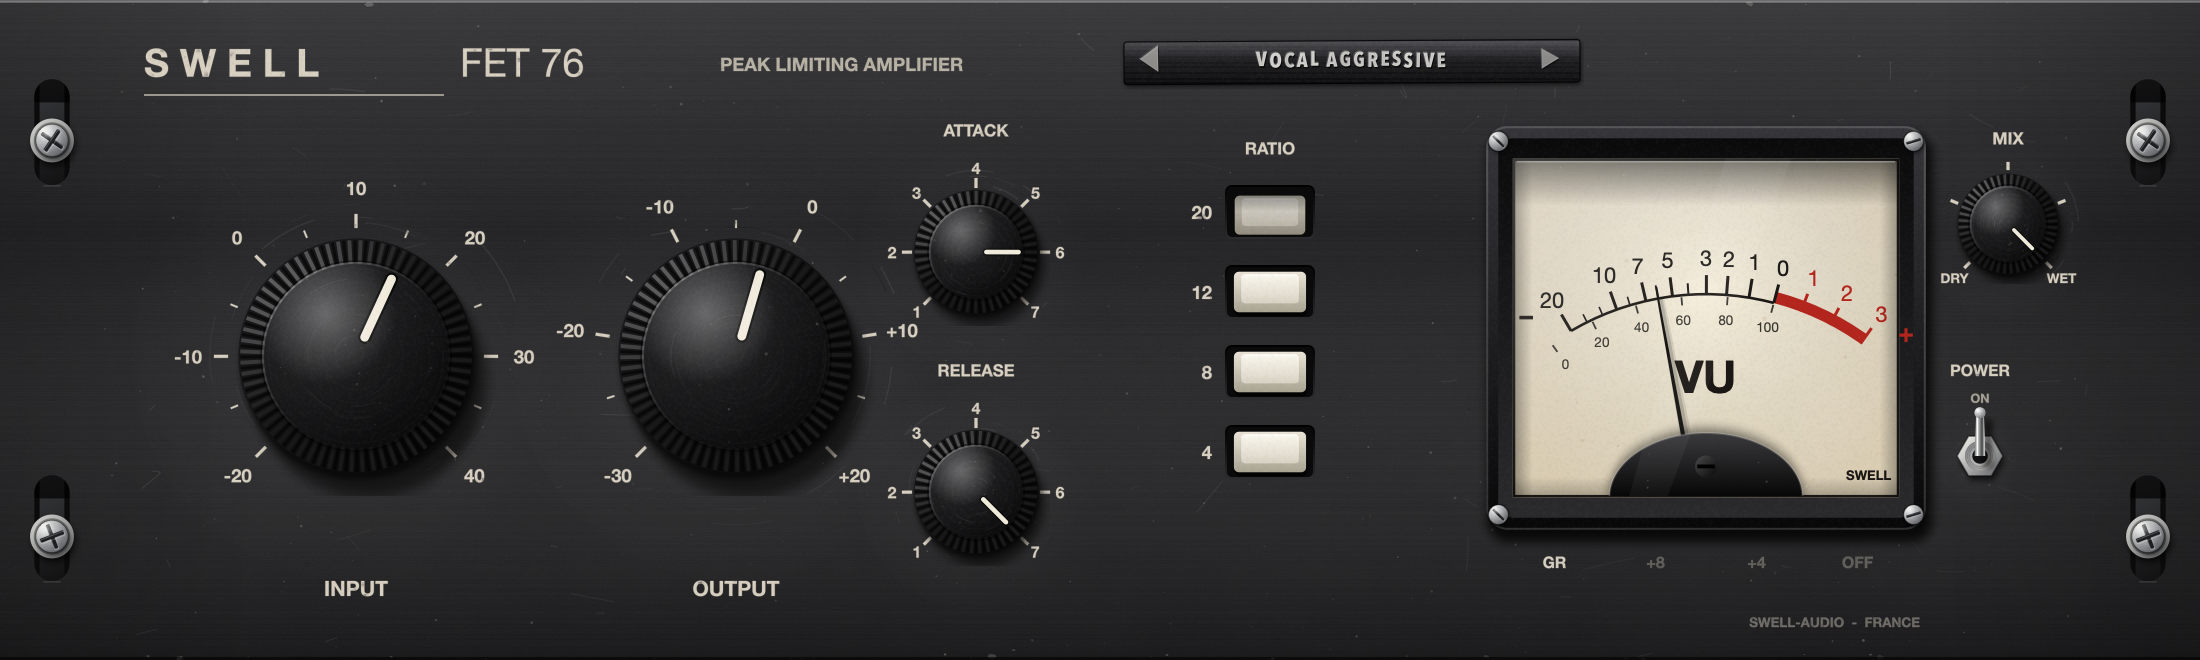
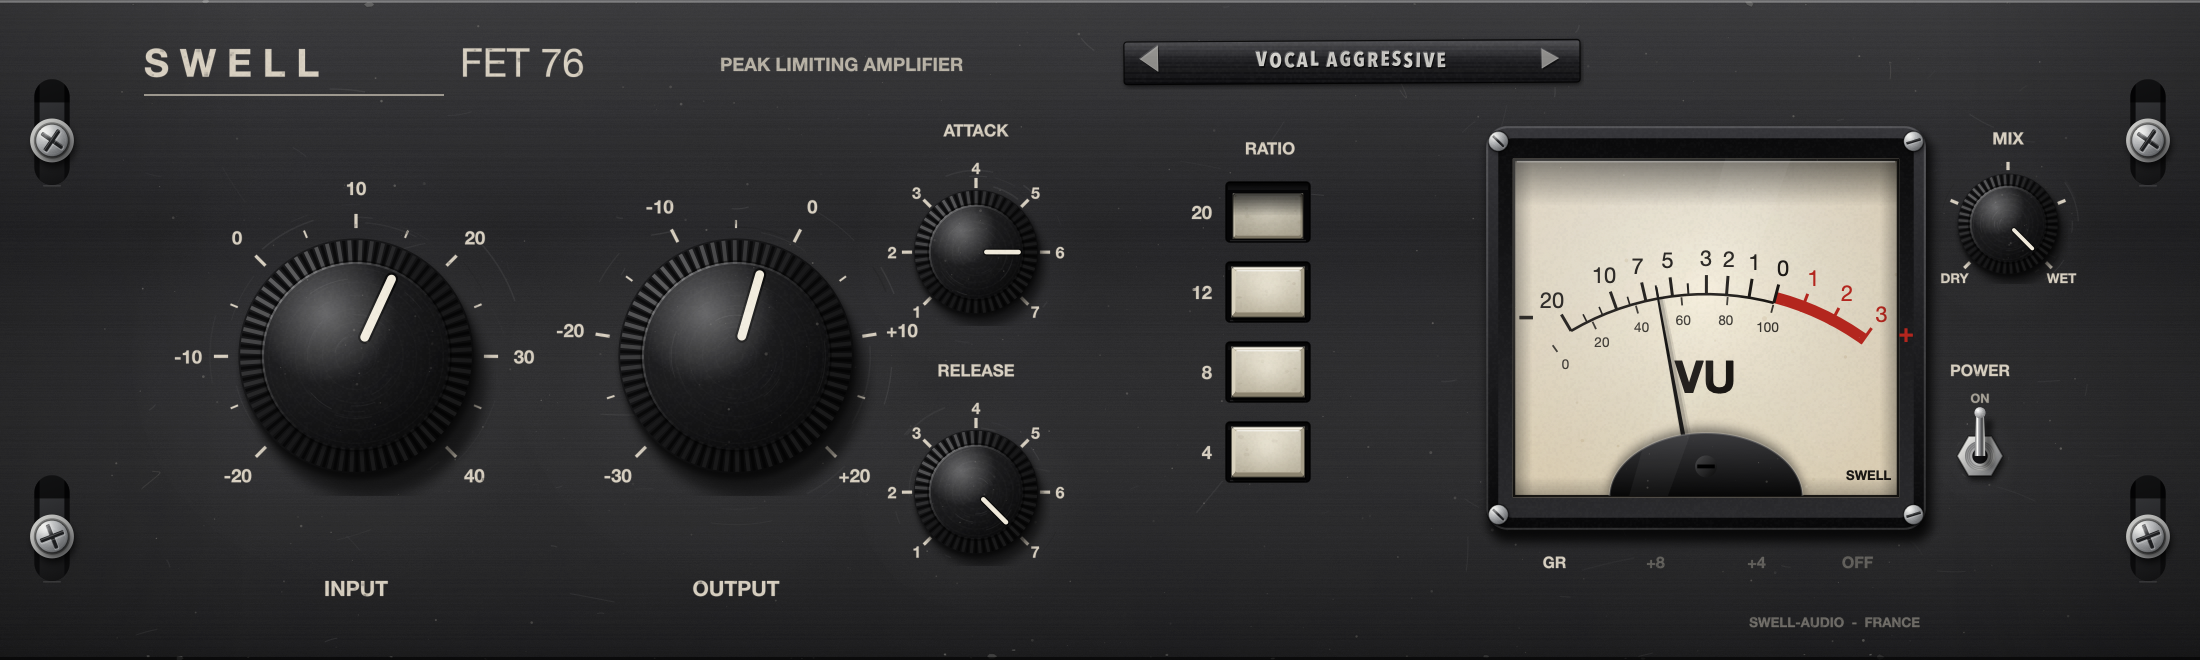
Touches de ratio en plastique ivoire réaliste
Découpe avec parois, biseaux éclairés, face légèrement creusée, patine,
ombre portée ; enfoncée, la touche descend dans la découpe.

Changed region(s): [[0.5564, 0.3939, 0.6182, 0.7576], [0.5564, 0.2727, 0.6182, 0.3636]]

diff --git a/Source/Common/AnalogComponents.cpp b/Source/Common/AnalogComponents.cpp
@@ -490,37 +490,102 @@ void VuMeter::paint (Graphics& g)
 //==============================================================================
 void PushKey::paintButton (Graphics& g, bool highlighted, bool down)
 {
+    // Touche à verrouillage en plastique ivoire, posée dans une découpe de la façade.
+    // Vue de face, lumière en haut à gauche : on voit l'épaisseur de la touche par ses biseaux,
+    // et l'ombre qu'elle porte au fond du logement. Enfoncée, elle descend dans la découpe.
     const auto b = getLocalBounds().toFloat().reduced (1.0f);
     const bool pressed = getToggleState() || down;
+    const auto seed = (uint32_t) (getY() * 7 + getX());
 
-    // Logement dans la façade.
-    g.setColour (Colour (0xff0a0a0b));
-    g.fillRoundedRectangle (b, 3.0f);
-    g.setGradientFill (ColourGradient (Colours::black, b.getX(), b.getY(), Colour (0xff2b2b2e), b.getX(), b.getBottom(), false));
-    g.drawRoundedRectangle (b, 3.0f, 1.0f);
+    // 1. Découpe : fond noir, parois intérieures (haute dans l'ombre, basse qui accroche la lumière).
+    const float wall = 2.6f;
+    g.setColour (Colour (0xff050506));
+    g.fillRoundedRectangle (b, 2.0f);
+    g.setGradientFill (ColourGradient (Colours::black, 0, b.getY(), Colour (0xff1a1a1c), 0, b.getY() + wall * 2, false));
+    g.fillRect (b.withHeight (wall * 1.5f).reduced (1.0f, 0));
+    g.setColour (Colours::white.withAlpha (0.10f));
+    g.drawLine (b.getX() + 2, b.getBottom() - 0.6f, b.getRight() - 2, b.getBottom() - 0.6f, 0.9f);   // arête basse de la découpe
+    g.setColour (Colours::black.withAlpha (0.8f));
+    g.drawRoundedRectangle (b, 2.0f, 0.8f);
 
-    auto cap = b.reduced (b.getWidth() * 0.09f, b.getHeight() * 0.11f);
-    if (pressed) cap = cap.translated (0, 1.6f).reduced (0.4f);
-    else
+    // 2. La touche : plus haute que large d'un rien, coins à peine arrondis.
+    auto cap = b.reduced (wall, wall * 0.9f);
+    const float travel = pressed ? 2.6f : 0.0f;
+    cap = cap.translated (0, travel).reduced (pressed ? 0.8f : 0.0f).withTrimmedBottom (pressed ? 1.0f : 0.0f);
+    const float corner = 1.6f;
+
+    // Ombre portée au fond du logement (presque nulle quand la touche est enfoncée).
+    if (! pressed)
     {
-        g.setColour (Colours::black.withAlpha (0.65f));
-        g.fillRoundedRectangle (cap.translated (0.6f, 2.2f), 2.5f);
+        Path sh;
+        sh.addRoundedRectangle (cap.translated (0.8f, 2.4f), corner);
+        g.setColour (Colours::black.withAlpha (0.75f));
+        g.fillPath (sh);
     }
-    const float tone = pressed ? 0.86f : (highlighted ? 1.03f : 1.0f);
-    auto shade = [tone] (uint32 argb) { auto c = Colour (argb); return Colour::fromFloatRGBA (jmin (1.0f, c.getFloatRed() * tone), jmin (1.0f, c.getFloatGreen() * tone), jmin (1.0f, c.getFloatBlue() * tone), 1.0f); };
-    g.setGradientFill (ColourGradient (shade (0xffeae5d6), cap.getX(), cap.getY(), shade (0xffa9a392), cap.getX(), cap.getBottom(), false));
-    g.fillRoundedRectangle (cap, 2.5f);
-    const auto top = cap.reduced (cap.getWidth() * 0.10f, 0).withTrimmedTop (cap.getHeight() * 0.06f).withTrimmedBottom (cap.getHeight() * 0.22f);
-    g.setGradientFill (ColourGradient (shade (0xfffbf8ef), top.getX(), top.getY(), shade (0xffd9d3c3), top.getX(), top.getBottom(), false));
-    g.fillRoundedRectangle (top, 2.0f);
-    g.setColour (Colours::white.withAlpha (pressed ? 0.25f : 0.6f));
-    g.drawLine (top.getX() + 1, top.getY() + 0.6f, top.getRight() - 1, top.getY() + 0.6f, 0.8f);
-    g.setTiledImageFill (grainTile(), 0, 0, 0.05f);
-    g.fillRoundedRectangle (cap, 2.5f);
-    if (pressed)   // la touche enfoncée passe dans l'ombre du logement
+
+    // Plastique ivoire un peu jauni ; la touche enfoncée reçoit moins de lumière.
+    const float lightK = pressed ? 0.90f : (highlighted ? 1.04f : 1.0f);
+    auto tone = [lightK] (uint32 argb, float k = 1.0f)
     {
-        g.setGradientFill (ColourGradient (Colours::black.withAlpha (0.35f), cap.getX(), cap.getY(), Colours::transparentBlack, cap.getX(), cap.getY() + cap.getHeight() * 0.4f, false));
-        g.fillRoundedRectangle (cap, 2.5f);
+        const auto c = Colour (argb);
+        const float m = lightK * k;
+        return Colour::fromFloatRGBA (jmin (1.0f, c.getFloatRed() * m), jmin (1.0f, c.getFloatGreen() * m), jmin (1.0f, c.getFloatBlue() * m), 1.0f);
+    };
+    const Colour ivory = tone (0xffe6dfcb);
+
+    // Corps de la touche (ce qui dépasse sous la face : flanc bas visible).
+    g.setColour (tone (0xff8e8674));
+    g.fillRoundedRectangle (cap, corner);
+
+    // Biseaux : quatre facettes éclairées différemment autour de la face.
+    const float bev = pressed ? 1.3f : 2.0f;
+    const auto face = cap.reduced (bev, bev).translated (0, -bev * 0.25f);
+    auto facet = [&] (Point<float> a, Point<float> b2, Point<float> c, Point<float> d, Colour col)
+    {
+        Path p; p.startNewSubPath (a); p.lineTo (b2); p.lineTo (c); p.lineTo (d); p.closeSubPath();
+        g.setColour (col); g.fillPath (p);
+    };
+    facet (cap.getTopLeft(), cap.getTopRight(), face.getTopRight(), face.getTopLeft(), tone (0xfff7f2e4));         // haut : pleine lumière
+    facet (cap.getTopLeft(), face.getTopLeft(), face.getBottomLeft(), cap.getBottomLeft(), tone (0xffd9d2be));     // gauche
+    facet (cap.getTopRight(), cap.getBottomRight(), face.getBottomRight(), face.getTopRight(), tone (0xffa59d88));  // droite
+    facet (cap.getBottomLeft(), face.getBottomLeft(), face.getBottomRight(), cap.getBottomRight(), tone (0xff8a826e)); // bas : dans l'ombre
+
+    // Face légèrement creusée : plus claire en haut, assombrie vers le bas, cuvette au centre.
+    g.setGradientFill (ColourGradient (tone (0xffefe9d7), 0, face.getY(), tone (0xffcfc7b1), 0, face.getBottom(), false));
+    g.fillRoundedRectangle (face, 1.0f);
+    {
+        Graphics::ScopedSaveState s (g);
+        g.reduceClipRegion (face.toNearestInt());
+        ColourGradient dish (Colours::black.withAlpha (0.0f), face.getCentreX(), face.getCentreY() - face.getHeight() * 0.1f,
+                             Colours::black.withAlpha (0.10f), face.getX(), face.getY(), true);
+        g.setGradientFill (dish);
+        g.fillRect (face);
+        // Patine : crasse claire dans les coins, usure plus lisse au centre là où le doigt appuie.
+        Rng r (seed);
+        for (int i = 0; i < 6; ++i)
+        {
+            const float x = face.getX() + r.next() * face.getWidth(), y = face.getY() + r.next() * face.getHeight();
+            g.setColour (Colour (0xff6b5f45).withAlpha (0.05f + 0.06f * r.next()));
+            g.fillEllipse (x, y, 1.0f + r.next() * 2.5f, 0.6f + r.next() * 1.5f);
+        }
+        ColourGradient polish (Colours::white.withAlpha (pressed ? 0.06f : 0.14f), face.getCentreX(), face.getCentreY(),
+                               Colours::transparentWhite, face.getCentreX() + face.getWidth() * 0.35f, face.getCentreY(), true);
+        g.setGradientFill (polish);
+        g.fillRect (face);
+        g.setTiledImageFill (grainTile(), (int) (r.next() * 200), (int) (r.next() * 200), 0.06f);
+        g.fillRect (face);
+    }
+    // Arêtes : fin liseré clair en haut de la face, contour sombre de la touche.
+    g.setColour (Colours::white.withAlpha (pressed ? 0.25f : 0.55f));
+    g.drawLine (face.getX() + 1.0f, face.getY() + 0.5f, face.getRight() - 1.0f, face.getY() + 0.5f, 0.7f);
+    g.setColour (Colours::black.withAlpha (0.55f));
+    g.drawRoundedRectangle (cap, corner, 0.7f);
+    juce::ignoreUnused (ivory);
+
+    if (pressed)   // enfoncée, la paroi haute de la découpe lui fait de l'ombre
+    {
+        g.setGradientFill (ColourGradient (Colours::black.withAlpha (0.7f), 0, cap.getY(), Colours::transparentBlack, 0, cap.getY() + cap.getHeight() * 0.5f, false));
+        g.fillRoundedRectangle (cap, corner);
     }
 }
 

diff --git a/Source/Fet/FetEditor.cpp b/Source/Fet/FetEditor.cpp
@@ -8,8 +8,8 @@ namespace
 constexpr int W = 1100, H = 330;
 const Colour ink (0xffe4dccb);          // encre de sérigraphie, blanc cassé
 const Colour panelTone (0xff1f1f21);
-constexpr int keyX1 = 612, keyW = 46, keyH = 28;
-constexpr int keyRows[] { 92, 132, 172, 212 };
+constexpr int keyX1 = 612, keyW = 44, keyH = 32;
+constexpr int keyRows[] { 90, 130, 170, 210 };
 const Rectangle<int> meterArea (742, 62, 222, 204);
 
 VuMeter::Style meterStyle()
